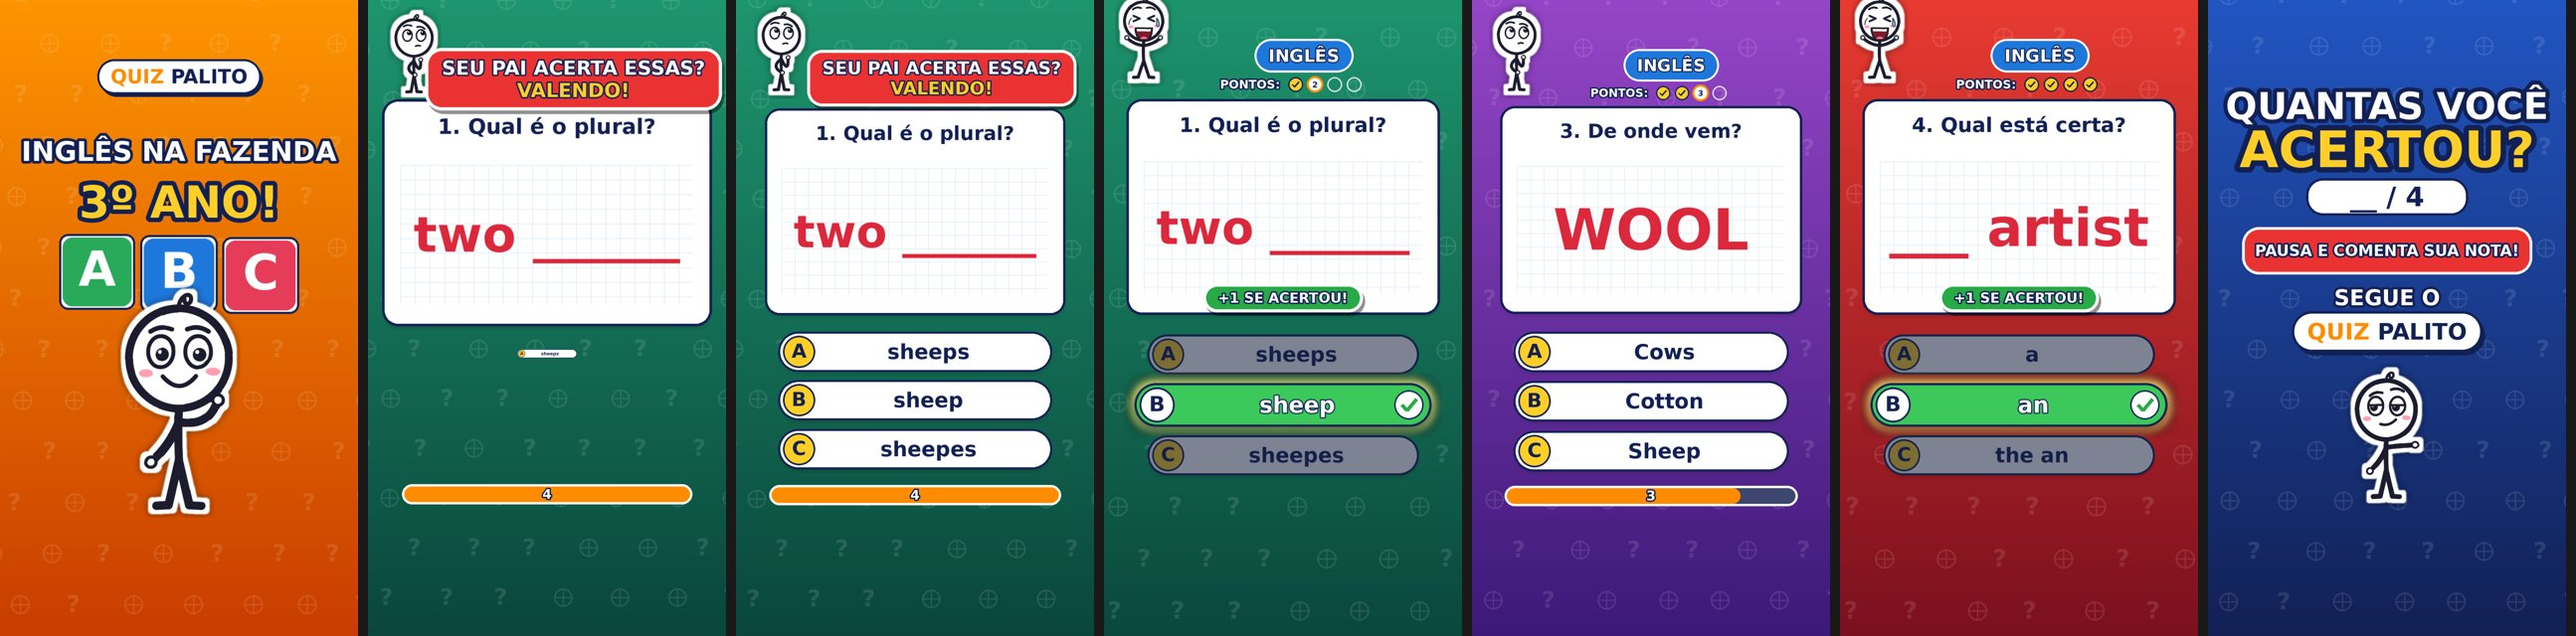
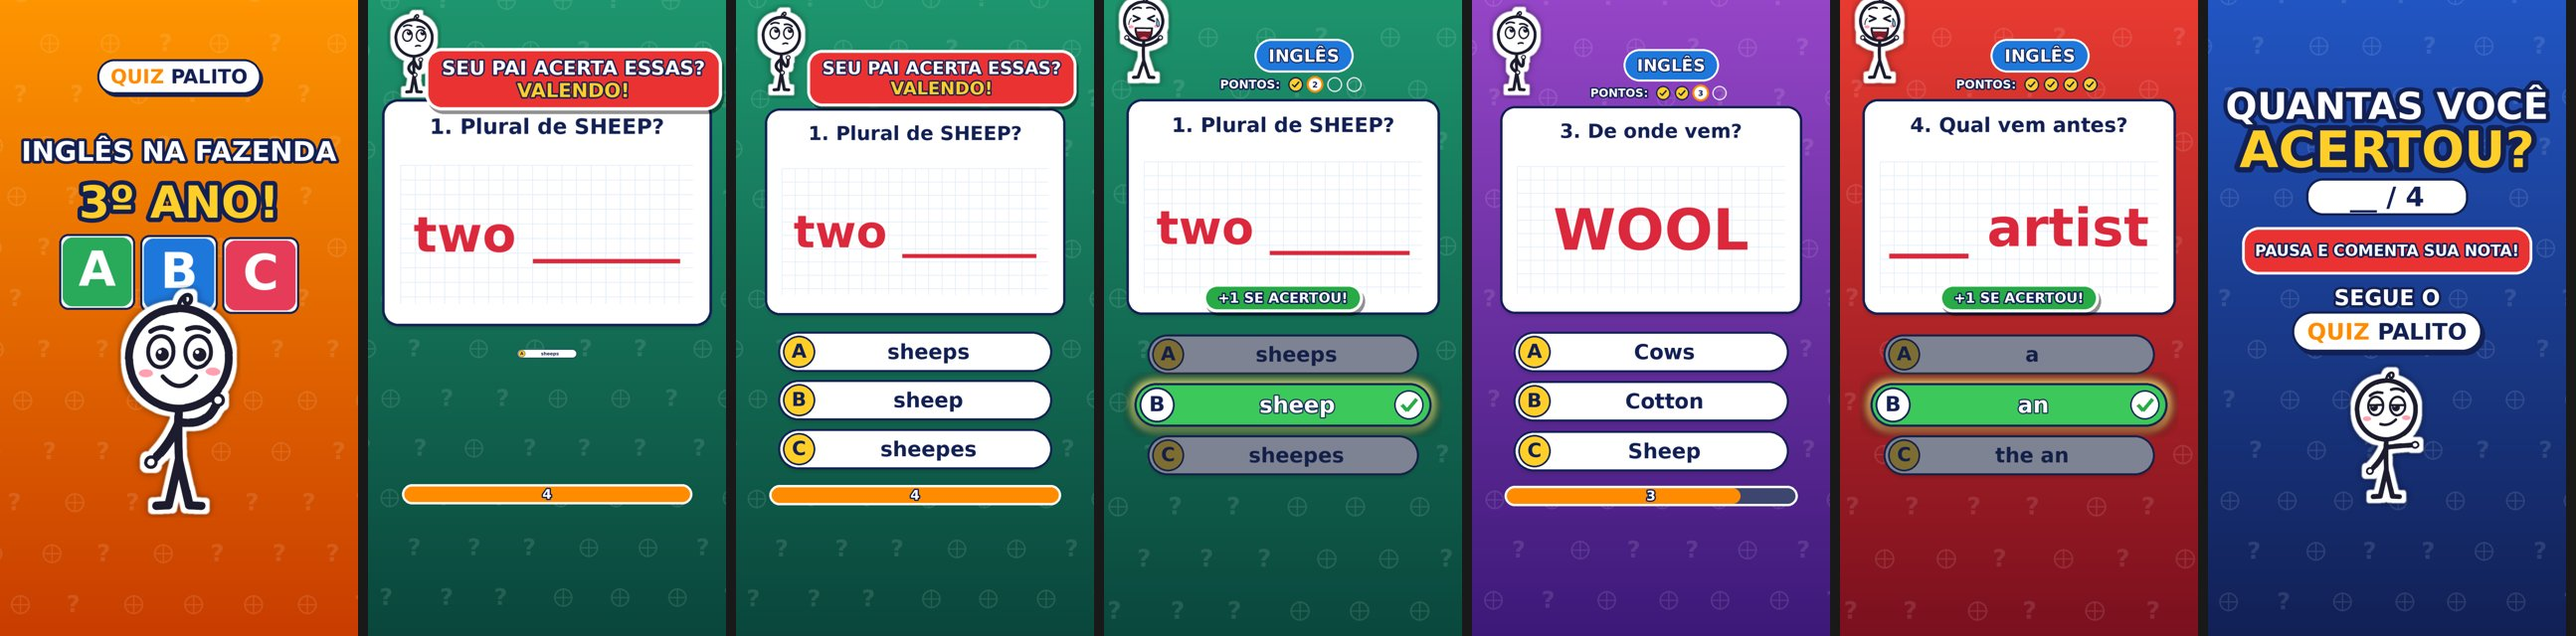
Vídeo 48: fotos Wikimedia, frases de maiúscula no cartão, prévia; fundo da cena do Flow em RGBA (intro com fotos quebrava)
Claude-Session: https://claude.ai/code/session_01SMH9EY9VosMHum3Ux6jcpw

diff --git a/videos/48-ela-fazenda/itens.py b/videos/48-ela-fazenda/itens.py
@@ -125,9 +125,9 @@ P = [
     (3, PONT, t("Where do eggs", "come from___"), PONT_OPS[0], PONT_OPS[1:],
      "Where do eggs come from. Qual sinal vai no final?",
      "Ponto de interrogação! Começa com where, onde: é uma pergunta.", {"falar_ops": False}),
-    (3, CERTA, t("Qual está", "escrita certa?"), "I can't wait!", ["i can't wait!", "I Can't Wait!"],
-     "Qual dessas está escrita certinho? Olha bem as letras maiúsculas!",
-     "I can't wait! O I, que quer dizer eu, é sempre maiúsculo em inglês.", {"falar_ops": False, "count": 9.0}),
+    (3, CERTA, t(), "I can't wait!", ["i can't wait!", "I Can't Wait!"],
+     "Qual dessas frases está escrita certinho? Olha bem as letras maiúsculas!",
+     "I can't wait! O I, que quer dizer eu, é sempre maiúsculo em inglês.", {"falar_ops": False, "count": 9.0, "frases": True}),
     (3, VEM, f("w:geleia", "STRAWBERRY JAM"), "Strawberry farm", ["Orange grove", "Cotton farm"],
      "Strawberry jam, geleia de morango. De onde vêm os morangos?",
      "Strawberry farm! A fazenda de morangos.", {}),
@@ -160,9 +160,9 @@ P = [
     (4, PRON, t("Do you want", "to go to the", "farmers market?"), "you", ["market", "want"],
      "Do you want to go to the farmers market? Qual é o pronoun?",
      "You! Você. Market é substantivo e want é verbo.", {"falar_ops": False}),
-    (4, CERTA, t("Qual está", "escrita certa?"), "Farmers bring fruits.", ["farmers bring fruits.", "Farmers bring fruits"],
+    (4, CERTA, t(), "Farmers bring fruits.", ["farmers bring fruits.", "Farmers bring fruits"],
      "Qual dessas está escrita certinho? Olha o começo e o fim!",
-     "A que começa com maiúscula e termina com ponto final!", {"falar_ops": False, "count": 9.0}),
+     "A que começa com maiúscula e termina com ponto final!", {"falar_ops": False, "count": 9.0, "frases": True}),
     (4, TRAD, t("gardener"), "Jardineiro", ["Jardim", "Garagem"],
      "Gardener. O que significa?",
      "Jardineiro! Garden é o jardim, e gardener é quem cuida dele.", {"falar_ops": False}),
@@ -178,11 +178,11 @@ P = [
     (4, CERTA, t("______ artist"), "an", ["a", "the an"],
      "Blank artist. Qual palavra vem antes de artist: an, a ou the an?",
      "An! Antes de som de vogal, usa an: an artist, an apple.", {"falar_ops": False, "suspense": True}),
-    (4, "QUAL ESTÁ 100% CERTA?", t("Qual frase", "está 100%", "certa?"), "Which baker sells cakes?",
+    (4, "QUAL ESTÁ 100% CERTA?", t(), "Which baker sells cakes?",
      ["which baker sells cakes?", "Which baker sells cakes."],
      "Qual dessas frases está cem por cento certa?",
      "Which baker sells cakes, com W maiúsculo e ponto de interrogação! Se acertou, você é fera!",
-     {"falar_ops": False, "count": 10.0, "final": True, "suspense": True}),
+     {"falar_ops": False, "count": 10.0, "final": True, "suspense": True, "frases": True}),
 ]
 
 INTRO_FOTOS = ["w:celeiro", "w:fazenda", "14:trator"]   # intro e miniatura (não estão nas perguntas)
@@ -217,6 +217,9 @@ def main():
         if ex.get("falar_ops", True):
             fq = f"{fq} {ops[0]}, {ops[1]} ou {ops[2]}?"
         img = dict(img)
+        if ex.get("frases"):   # as opções ficam em MAIÚSCULAS no botão: a frase vai no cartão, o botão diz qual
+            img["cartao"] = [f"{'ABC'[i]}) {o}" for i, o in enumerate(ops)]
+            ops = [f"FRASE {'ABC'[i]}" for i in range(3)]
         if "foto" in img:
             img["foto"] = copiar(img["foto"], cred, img.get("rotulo") or certa)[:-4]
         r = {"n": n, "nivel": nivel, "pergunta": perg, **img, "img": f"q{n}.png",

diff --git a/videos/modelo-opcoes/opcoes.py b/videos/modelo-opcoes/opcoes.py
@@ -399,7 +399,7 @@ def fundo_abertura(caminho, escurecer=0.35):
         z = 1.0 + 0.04 * min(t / 3.0, 1.0)
         w, h = int(W / z), int(H / z)
         x, y = (W - w) // 2, (H - h) // 2
-        return base.crop((x, y, x + w, y + h)).resize((W, H))
+        return base.crop((x, y, x + w, y + h)).resize((W, H)).convert("RGBA")
     return f
 
 
